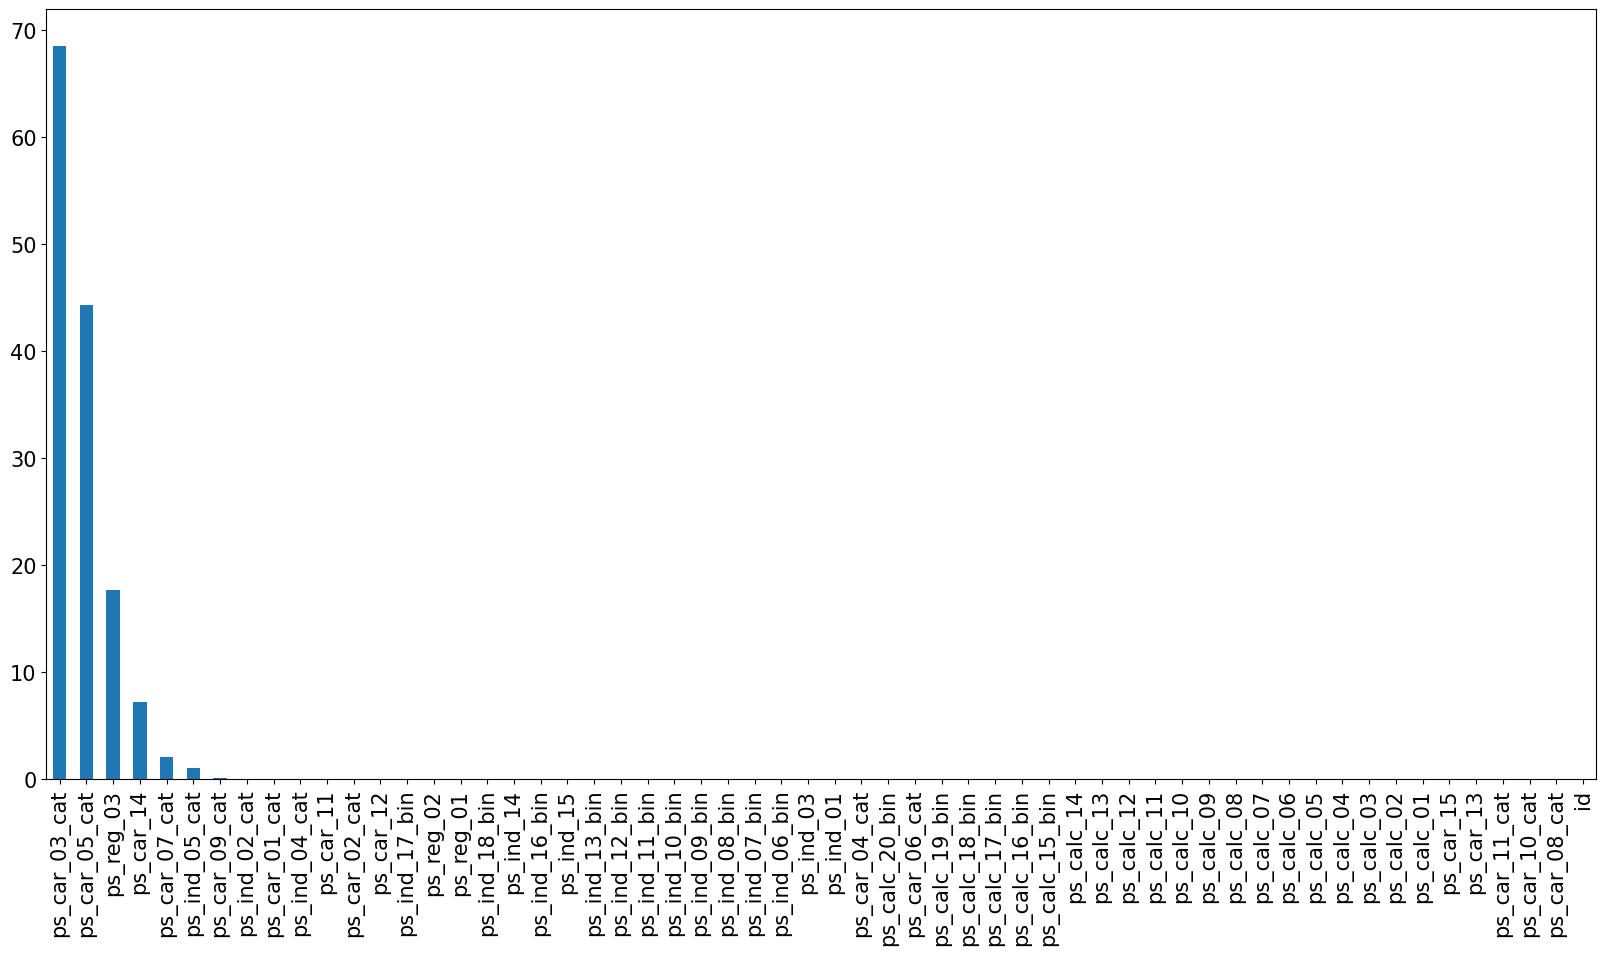
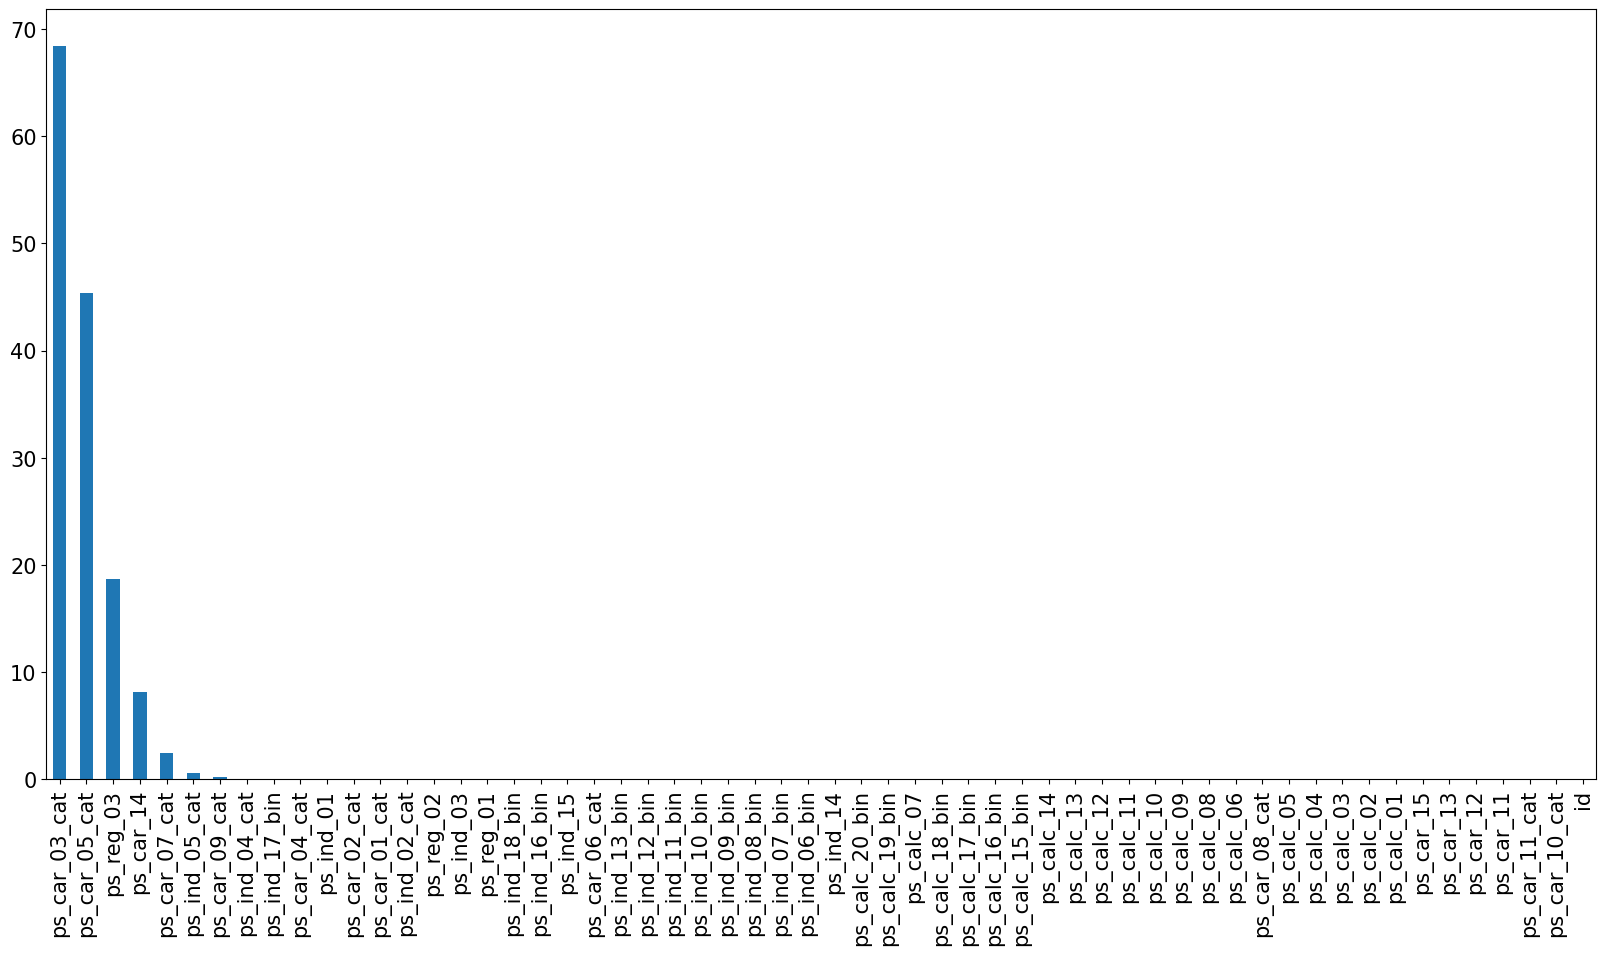
further steps

diff --git a/01 Code/main.py b/01 Code/main.py
@@ -10,8 +10,12 @@ import math
 import matplotlib.pyplot as plt
 import seaborn as sns
 
-from sklearn.neighbors import KNeighborsRegressor
+from sklearn.pipeline import Pipeline
+from sklearn.impute import KNNImputer
 from sklearn.preprocessing import MinMaxScaler
+from sklearn.decomposition import PCA
+
+from imblearn.over_sampling import SMOTE
 
 # Paths
 MAIN_PATH = r"/Users/paulmora/Documents/projects/insurance_claim"
@@ -24,6 +28,10 @@ OUTPUT_PATH = rf"{MAIN_PATH}/03 Output"
 train_data = pd.read_csv(rf"{RAW_PATH}/train.csv")
 test_data = pd.read_csv(rf"{RAW_PATH}/test.csv")
 total_data = pd.concat([train_data, test_data], axis=0)
+total_data.reset_index(drop=True, inplace=True)
+
+### SMALL DATASET
+total_data = total_data.loc[:1_000, :]
 
 # %% Settings
 
@@ -75,83 +83,95 @@ Given the very small correlation we see between the highly missing columns and t
 them since it is not worth trying to rescue them.
 """
 
-new_sorted_missing_pct = sorted_missing_pct.drop(highly_missing_columns)
-no_nan_columns = list(sorted_missing_pct[sorted_missing_pct == 0].index)
-still_missing_columns = list(set(sorted_missing_pct.index) - set(no_nan_columns))
-
-"""
-Given that we found several variables which show that they are floats even though they are binary variables, this
-is checked and changed where needed.
-"""
-
-features = list(set(total_data.columns) - set(["id", "target"]))
-
-feature = "ps_ind_04_cat"
-
-for feature in tqdm(features):
-    bool_nan_series = total_data.loc[:, feature].isna()
-    non_nan_series = total_data.loc[~bool_nan_series, feature]
-    bool_already_binary_column = feature.endswith("_bin")
-    bool_binary_content = set(non_nan_series) - set([0, 1]) == set()
-    if bool_binary_content and not bool_already_binary_column:
-        total_data.loc[~bool_nan_series, feature] = total_data.loc[~bool_nan_series, feature].astype(int)
-        total_data.rename(columns={feature: f"{feature}_bin"}, inplace=True)
-# NOT WORKING
-
-"""
-Furthermore we find a couple of variables which are indicated as floats but they are more like categorical variables,
-given
-"""
-
-    bool_float_cat = total_data.loc[:, feature].value_counts().min() > 1
-    bool_float_indication = feature[-1].isnumeric()
-    if bool_float_cat and bool_float_indication:
-        total_data.rename(columns={feature: f"{feature}_float_cat"}, inplace=True)
-
-total_data.loc[:, "ps_car_07_cat"].value_counts()
-
-feature = features[0]
-
-cat_vars
-float_vars =
-
-float_columns = [x for (x, y) in zip(total_data.columns, total_data.dtypes) if y == float and x[-1].isnumeric()]
-cat_variables = [x for (x, y) in zip(total_data.columns, total_data.dtypes) if x.endswith("_cat") or y == int]
-
-total_data.loc[:, "ps_ind_07_bin"]
-
-"""
-For the moment we simply will fill in the mean before doing something more sophisticated
-
-Ideas:
-    - KNN for categorical
-    - KNN Regression for continuous variables
-
-"""
-
 total_data.drop(columns=highly_missing_columns, inplace=True)
-filled_total_data = total_data.fillna(total_data.mean())
+new_sorted_missing_pct = sorted_missing_pct.drop(highly_missing_columns)
 
-assert filled_total_data.isna().any().any() == False, "Still Missing Data"
+"""
+Now we will impute the missing columns with the KNN approach
+"""
+
+features = list(set(total_data) - set(["id", "target"]))
+df_features = total_data.loc[:, features]
+
+minmax_scaler = MinMaxScaler()
+imputer = KNNImputer(n_neighbors=1, weights="uniform", metric="nan_euclidean")
+pipe = Pipeline([("scaler", minmax_scaler), ("imputation", imputer)])
+pipe.fit(df_features)
+
+scaled_total_data = total_data.copy()
+scaled_total_data.loc[:, features] = pipe.transform(df_features)
+
+assert scaled_total_data.isna().any().any() == False, "Still Missing Data"
 
 # %% Target Variable - Imbalanced Data
 
 """
-As in every classification project within insurance we face quite a strong imbalance. In the first go we will not
-address this problem but will come back to this and try:
-    - SMOTE Up-sampling
-    - SMOTE Up-sampling plus random down-sampling
+Before moving on to the feature creation we take a gander on the balancing of the class
 """
 
-fig, axs = plt.subplots(figsize=(10, 10))
-sns.countplot(x="target", data=total_data, ax=axs)
-axs.tick_params(axis="both", which="major")
-axs.set_ylabel("Count")
-path = rf"{OUTPUT_PATH}/count_plot.png"
-fig.savefig(path, bbox_inches='tight')
-plt.close()
+
+def count_plot_creation(data, name):
+    """
+    This function plots the count of the target variable
+    :param data: dataframe: which contains a column called target
+    :param name: str: String to specify how the plot should be saved
+    """
+    fig, axs = plt.subplots(figsize=(10, 10))
+    sns.countplot(x="target", data=data, ax=axs)
+    axs.tick_params(axis="both", which="major")
+    axs.set_ylabel("Count")
+    path = rf"{OUTPUT_PATH}/count_plot_{name}.png"
+    fig.savefig(path, bbox_inches='tight')
+    plt.close()
+
+
+def pca_scatterplot_creation(data, features, name):
+
+    pca = PCA(n_components=2)
+    pca_factors = pd.DataFrame(pca.fit_transform(data.loc[:, features]),
+                               columns=["PCA_0", "PCA_1"])
+    pca_factors.loc[:, "target"] = data.loc[:, "target"]
+    fig, axs = plt.subplots(figsize=(10, 10))
+    sns.scatterplot(data=pca_factors, x="PCA_0", y="PCA_1", hue="target")
+    path = rf"{OUTPUT_PATH}/scatter_plot_{name}.png"
+    fig.savefig(path, bbox_inches='tight')
+    plt.close()
+
+
+count_plot_creation(scaled_total_data, "no_sampling")
+pca_scatterplot_creation(scaled_total_data, features, "no_sampling")
+
+
+"""
+As in every classification project within insurance we face quite a strong imbalance. To mitigate that problem
+we fire up a SMOTE over-sampler. We try 
+"""
+
+oversample = SMOTE(sampling_strategy=0.5)
+x_data = scaled_total_data.loc[:, features]
+y_data = scaled_total_data.loc[:, "target"]
+sampled_x_data, sampled_y_data = oversample.fit_resample(x_data, y_data)
+upsampled_total_data = pd.concat([sampled_x_data, sampled_y_data], axis=1)
+
+pca_scatterplot_creation(upsampled_total_data, features, "upsampling")
 
 # %% Feature Engineering
+
+# Re-assigning the features into different categories
+
+"""
+Within the data we have several variables which are indicated to be floats, even though they should be
+classified as categorical given that all observations fall into a category which is only labelled as a
+numeric value
+"""
+
+for feature in features:
+    bool_float_cat = upsampled_total_data.loc[:, feature].value_counts().min() > 1
+    bool_float_indication = feature[-1].isnumeric()
+    if bool_float_cat and bool_float_indication:
+        upsampled_total_data.rename(columns={feature: f"{feature}_float_cat"}, inplace=True)
+
+# Float variables
 
 """
 Before diving into the variables we first have to change the type of some numeric columns. That is because
@@ -159,16 +179,19 @@ we have some variables which are denoted as float, but are actually categorical.
 at the following plot of float columns
 """
 
+float_columns = [x for x in upsampled_total_data.columns if x[-1].isnumeric()]
 float_plot_cols = 2
 float_plot_rows = math.ceil(len(float_columns) / float_plot_cols)
 fig, axs = plt.subplots(nrows=float_plot_rows, ncols=float_plot_cols,
                         figsize=(float_plot_cols * 10, float_plot_rows * 10))
 axs = axs.ravel()
 for i, float_column in tqdm(enumerate(float_columns)):
-    sns.histplot(total_data.loc[:, float_column], ax=axs[i])
+    sns.histplot(upsampled_total_data.loc[:, float_column], ax=axs[i])
 path = rf"{OUTPUT_PATH}/continuous_variables_dist.png"
 fig.savefig(path, bbox_inches='tight')
 plt.close()
+
+# Categorical variables
 
 """
 We therefore define every column of these float variables as a categorical if every category has more than one
@@ -209,54 +232,13 @@ total_data.loc[:, "ps_car_11"].value_counts()
 a = total_data.loc[:, "ps_car_13"].value_counts()
 
 
+# %% Model building
+
+
+
+
+
 # %%
-
-
-def mean_imputing(data, target):
-
-    mean_of_target_variable = np.nanmean(data.loc[:, target])
-    filled_column = data.loc[:, target].fillna(mean_of_target_variable)
-    return filled_column
-
-
-def median_imputing(data, target):
-
-    median_of_target_variable = np.nanmedian(data.loc[:, target])
-    filled_column = data.loc[:, target].fillna(median_of_target_variable)
-    return filled_column
-
-
-def nearest_neighbor(data, target, features)
-
-    bool_nan_target_rows = data.loc[:, target].isna()
-
-    x_raw = data.loc[~bool_nan_target_rows, features]
-    x_norm = MinMaxScaler().fit_transform(x_raw)
-    y = data.loc[~bool_nan_target_rows, target]
-
-    neigh = KNeighborsRegressor(n_neighbors=1)
-    neigh.fit(x_norm, y)
-
-    neigh.predict(x_norm[bool_nan_target_rows])
-    neigh.predict(data.loc[~bool_nan_target_rows, features])
-
-
-
-def imputing_assessment(imputed_series):
-
-
-    time_series = imputed_series.dropna().reset_index(drop=True)
-
-    n = 50
-    random.seed(42)
-    rand_num = random.sample(range(0, len(time_series)), n)
-
-    time_series_w_nan = time_series.copy()
-    time_series_w_nan[rand_num] = np.nan
-
-
-
-
 
 
 
